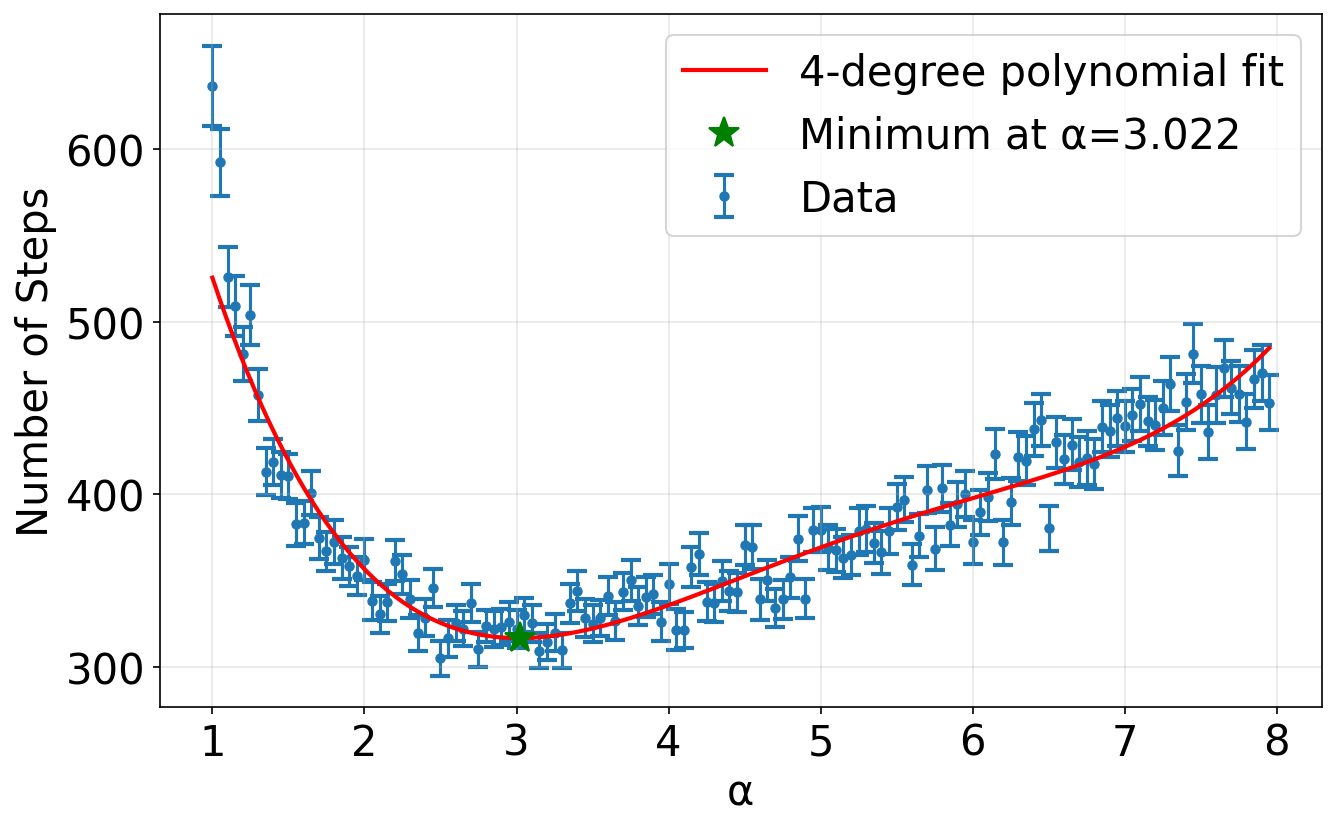
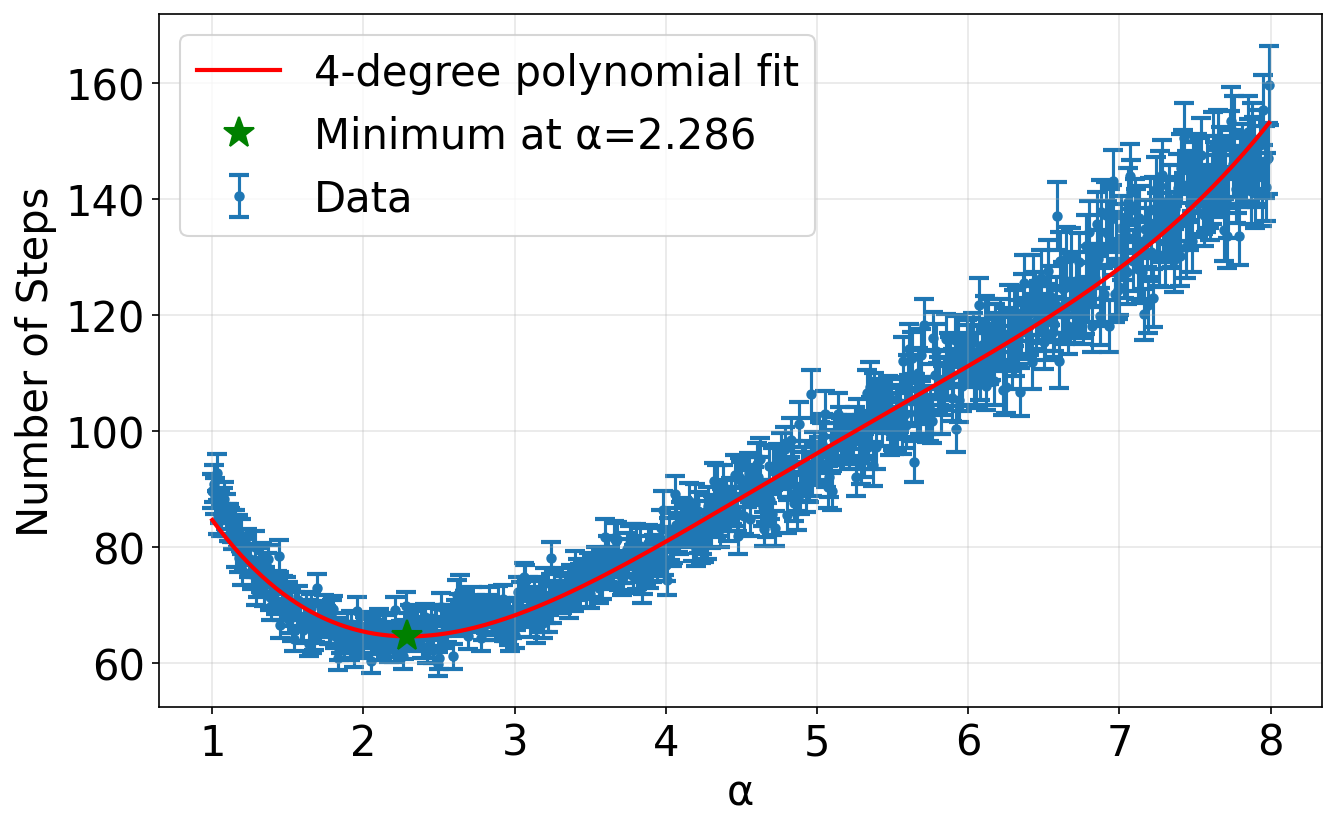
L50L10exponential

diff --git a/Exponential/Exponential.py b/Exponential/Exponential.py
@@ -1,11 +1,11 @@
 import numpy as np
 import matplotlib.pyplot as plt
 
-L=25
+L=10
 N_pasos=1000
 alpha_0=1
 alpha_f=8
-delta_alpha=0.05
+delta_alpha=0.01
 suma=0
 
 promedios = []
